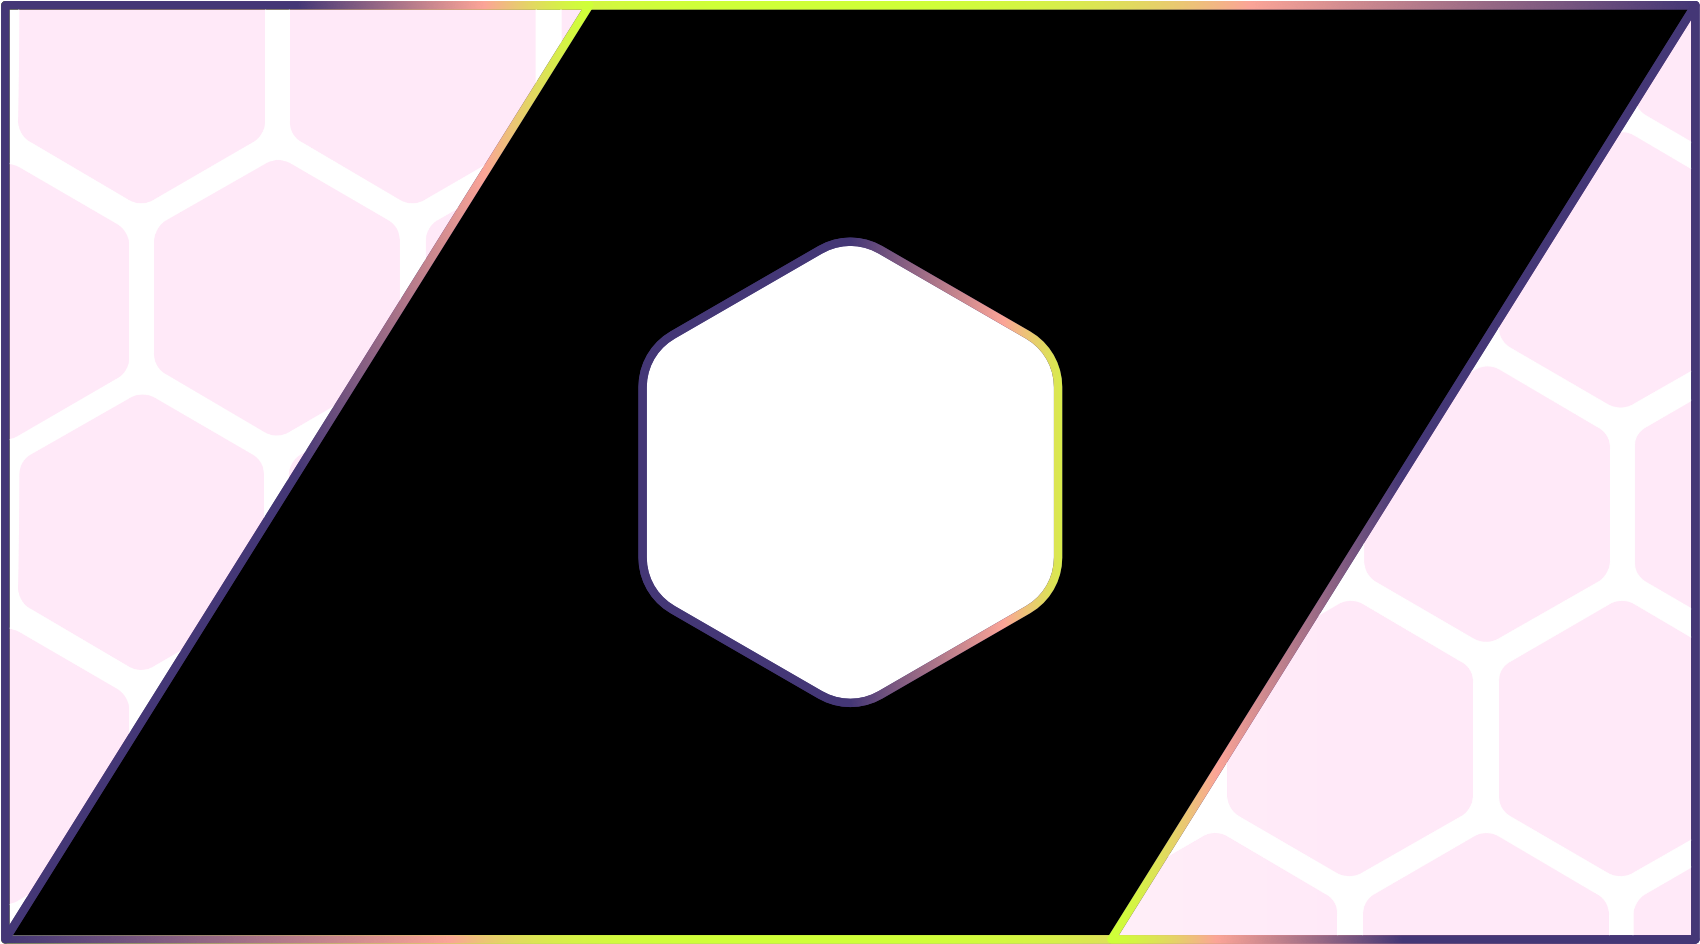
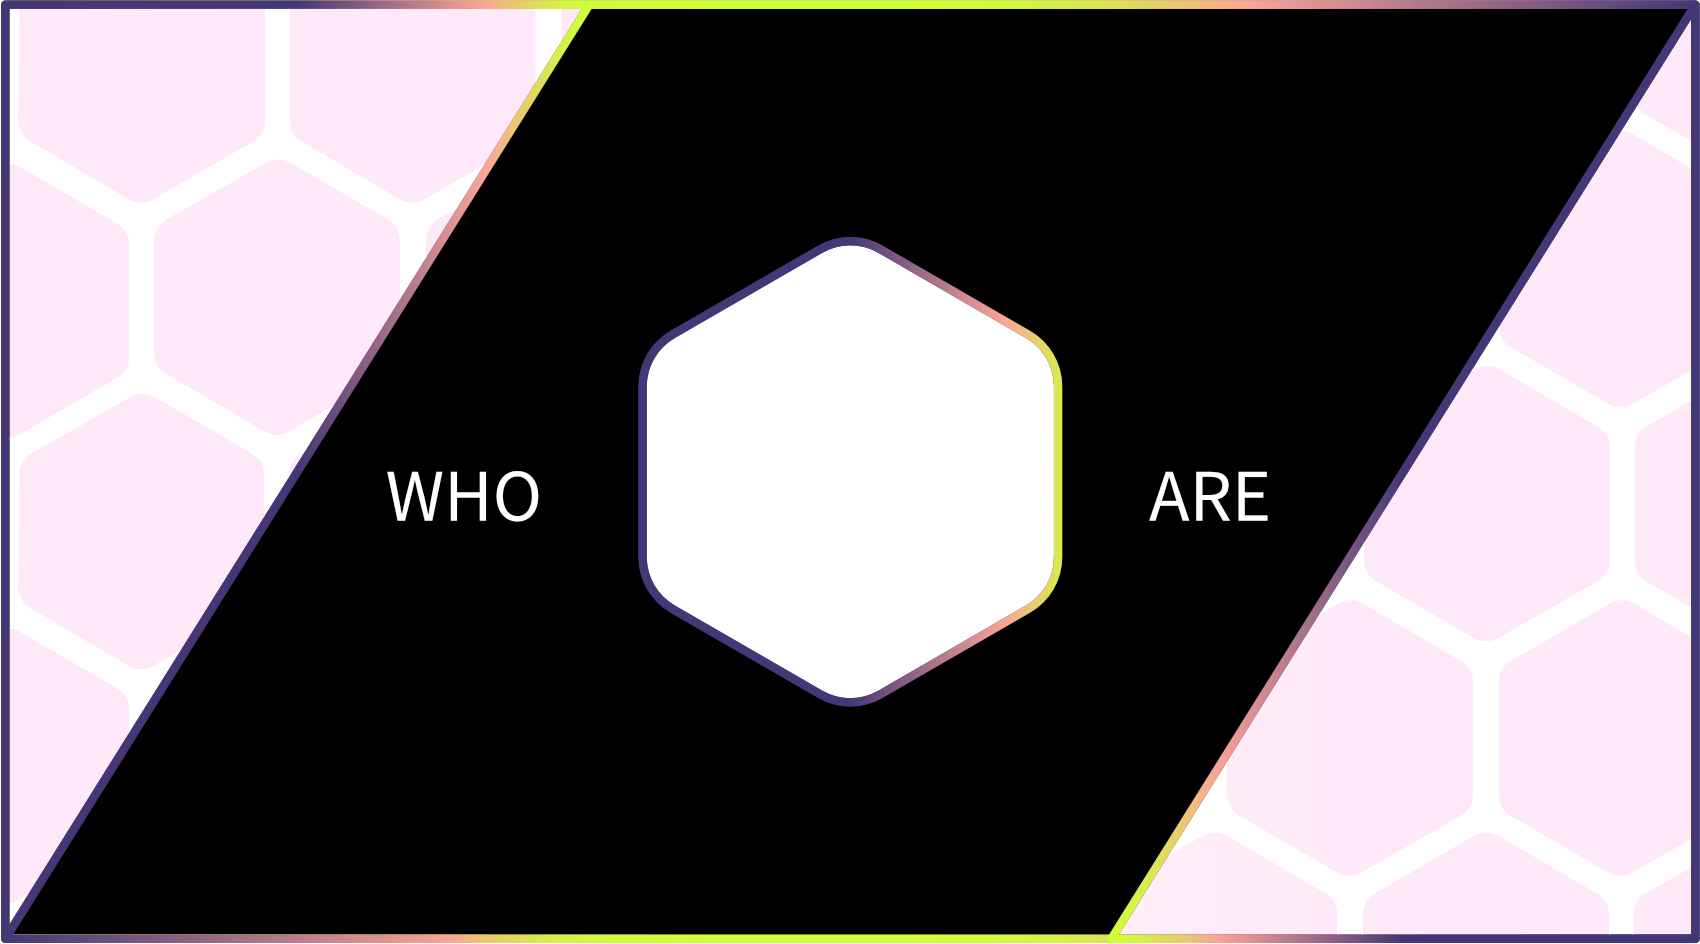
fix: automatic window adaptation

Changed region(s): [[0.0, 0.9831, 0.9976, 1.0], [0.2182, 0.4915, 0.3118, 0.553], [0.6547, 0.4915, 0.7482, 0.553]]

diff --git a/packages/meta-network-home/pages/index.js b/packages/meta-network-home/pages/index.js
@@ -1,5 +1,8 @@
+// noinspection CssUnknownTarget,HtmlUnknownTarget
+
 import Head from 'next/head';
 import Image from 'next/image';
+import Footer from '../components/Footer';
 
 export default function Home() {
   return (
@@ -17,7 +20,7 @@ export default function Home() {
             <img
               className="logo-before-title"
               src="/images/logos/meta-network.png"
-            />
+             alt="Meta Network Logo" />
             <span className="colored-title">META</span> NETWORK
           </h1>
 
@@ -41,10 +44,10 @@ export default function Home() {
             </p>
             <p style={{ marginTop: 20 }}>
               <a href="https://www.matataki.io/" target="__blank" style={{ paddingRight: 15 }}>
-                <img className="logo-link" src="/images/logos/matataki.png" />
+                <img className="logo-link" src="/images/logos/matataki.png"  alt="Matataki"/>
               </a>
               <a href="https://www.meta.io/" target="__blank">
-                <img className="logo-link" src="/images/logos/meta-io.png" />
+                <img className="logo-link" src="/images/logos/meta-io.png"  alt="Meta-io"/>
               </a>
 
             </p>
@@ -52,12 +55,6 @@ export default function Home() {
         </card>
 
         <card className="rightCard">
-          <span className="extra-text-inner">
-            YOU
-          </span>
-          <span className="extra-text-outer">
-            WHO ARE
-          </span>
           <Image
             priority
             width={850}
@@ -67,18 +64,8 @@ export default function Home() {
         </card>
       </main>
 
-      <footer>
-        <img className="brand-logo" src="/images/logos/QTUM.png"/>
-        <img className="brand-logo" src="/images/logos/LD.png"/>
-        <img className="brand-logo" src="/images/logos/dForce.png"/>
-        <img className="brand-logo" src="/images/logos/MCDEX.png"/>
-        <img className="brand-logo" src="/images/logos/YFII.png"/>
-        <img className="brand-logo" src="/images/logos/NGC.png"/>
-        <img className="brand-logo" src="/images/logos/Primitive.png"/>
-        <img className="brand-logo" src="/images/logos/Cyberright.png"/>
-        <img className="brand-logo" src="/images/logos/499Block.png"/>
-        <img className="brand-logo" src="/images/logos/OGlabs.png"/>
-      </footer>
+      <Footer />
+
       <style jsx>{`
         @font-face {
           font-family: Oriya MN; src: url('oriya-mn.ttf');
@@ -142,45 +129,12 @@ export default function Home() {
           height: 3vw;
         }
         
-        footer {
-          width: 100%;
-          height: auto;
-          display: flex;
-          position: fixed;
-          bottom: 32.2px;
-          justify-content: center;
-          align-items: center;
-        }
-        
-        .brand-logo {
-          max-width: 6.5vw;
-          padding: 0 1vw;
-        }
-        
-        .extra-text-inner {
-          position: absolute;
-          top: 50%;
-          left: 50%;
-          font-size: 3.4vw;
-          margin-left: -3.57vw;
-          margin-top: -2.6vw;
-        }
-        
-        .extra-text-outer {
-          position: absolute;
-          top: 50%;
-          left: 50%;
-          font-size: 2.4vw;
-          margin-left: -5.5vw;
-          margin-top: 5.6vw;
-          z-index: 1;
-        }
-        
         .to-meta-network {
           margin-left: 2vw;
           vertical-align: middle;
-          min-width: 130px;
-          height: 40px;
+          min-width: 9vw;
+          min-height: 2.8vw;
+          font-size: 1vw;
           color: black;
           padding: 5px 10px;
           font-weight: bold;

diff --git a/packages/meta-network-home/components/Footer.js b/packages/meta-network-home/components/Footer.js
@@ -1,0 +1,18 @@
+import styles from './Footer.module.css'
+
+export default () => {
+  return (
+    <footer className={styles.footer}>
+      <img className={styles.brandLogo} src="/images/logos/QTUM.png"/>
+      <img className={styles.brandLogo} src="/images/logos/LD.png"/>
+      <img className={styles.brandLogo} src="/images/logos/dForce.png"/>
+      <img className={styles.brandLogo} src="/images/logos/MCDEX.png"/>
+      <img className={styles.brandLogo} src="/images/logos/YFII.png"/>
+      <img className={styles.brandLogo} src="/images/logos/NGC.png"/>
+      <img className={styles.brandLogo} src="/images/logos/Primitive.png"/>
+      <img className={styles.brandLogo} src="/images/logos/Cyberright.png"/>
+      <img className={styles.brandLogo} src="/images/logos/499Block.png"/>
+      <img className={styles.brandLogo} src="/images/logos/OGlabs.png"/>
+    </footer>
+  )
+}

diff --git a/packages/meta-network-home/components/Footer.module.css b/packages/meta-network-home/components/Footer.module.css
@@ -1,0 +1,15 @@
+.footer {
+    width: 100%;
+    height: auto;
+    display: flex;
+    position: fixed;
+    bottom: 32px;
+    justify-content: center;
+    align-items: center;
+}
+
+.brandLogo {
+    max-width: 6.5vw;
+    padding: 0 1vw;
+}
+
